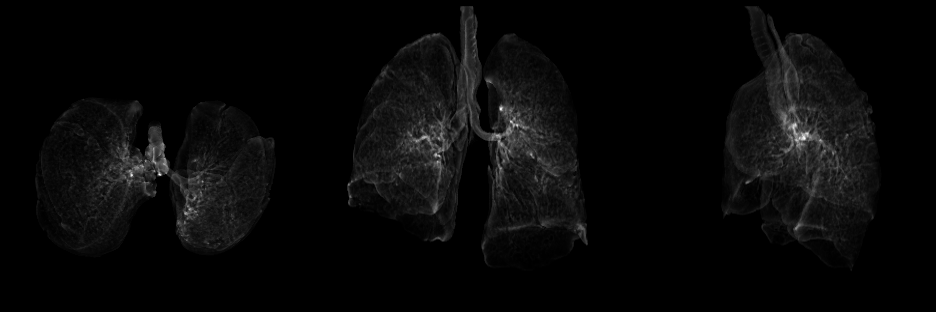
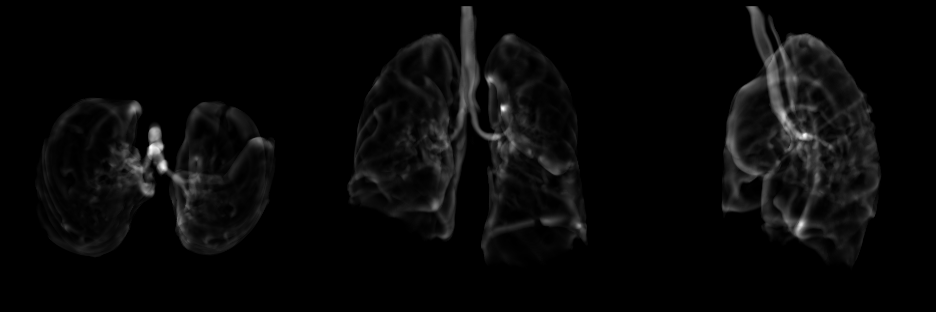
reduced sigma for fissure

diff --git a/demo.py b/demo.py
@@ -9,8 +9,8 @@ from oldschool import lung_seg, vessel_seg, airway_seg, fissure_seg
 
 TARGET_SHAPE = [1,1,1]
 if __name__ == "__main__":
-    # download
-    
+
+    # download    
     image_root = "images"
     series_instance_uid = '1.3.6.1.4.1.14519.5.2.1.6279.6001.113679818447732724990336702075'
     myfile = f'{image_root}/{series_instance_uid}.nii.gz'
@@ -23,7 +23,7 @@ if __name__ == "__main__":
     # resample
     img_obj= resample_img(img_obj, TARGET_SHAPE)
 
-
+    # process...
     for name,method,args in [
         ('lung',lung_seg,(img_obj,)),
         ('airway',airway_seg,(img_obj,)),

diff --git a/oldschool.py b/oldschool.py
@@ -132,7 +132,7 @@ def fissure_seg(img_obj):
     direction = img_obj.GetDirection()
 
     gaussian = sitk.SmoothingRecursiveGaussianImageFilter()
-    gaussian.SetSigma(float(1.0))
+    gaussian.SetSigma(float(0.5))
     smoothed = gaussian.Execute(img_obj)
 
     myfilter = sitk.ObjectnessMeasureImageFilter()
